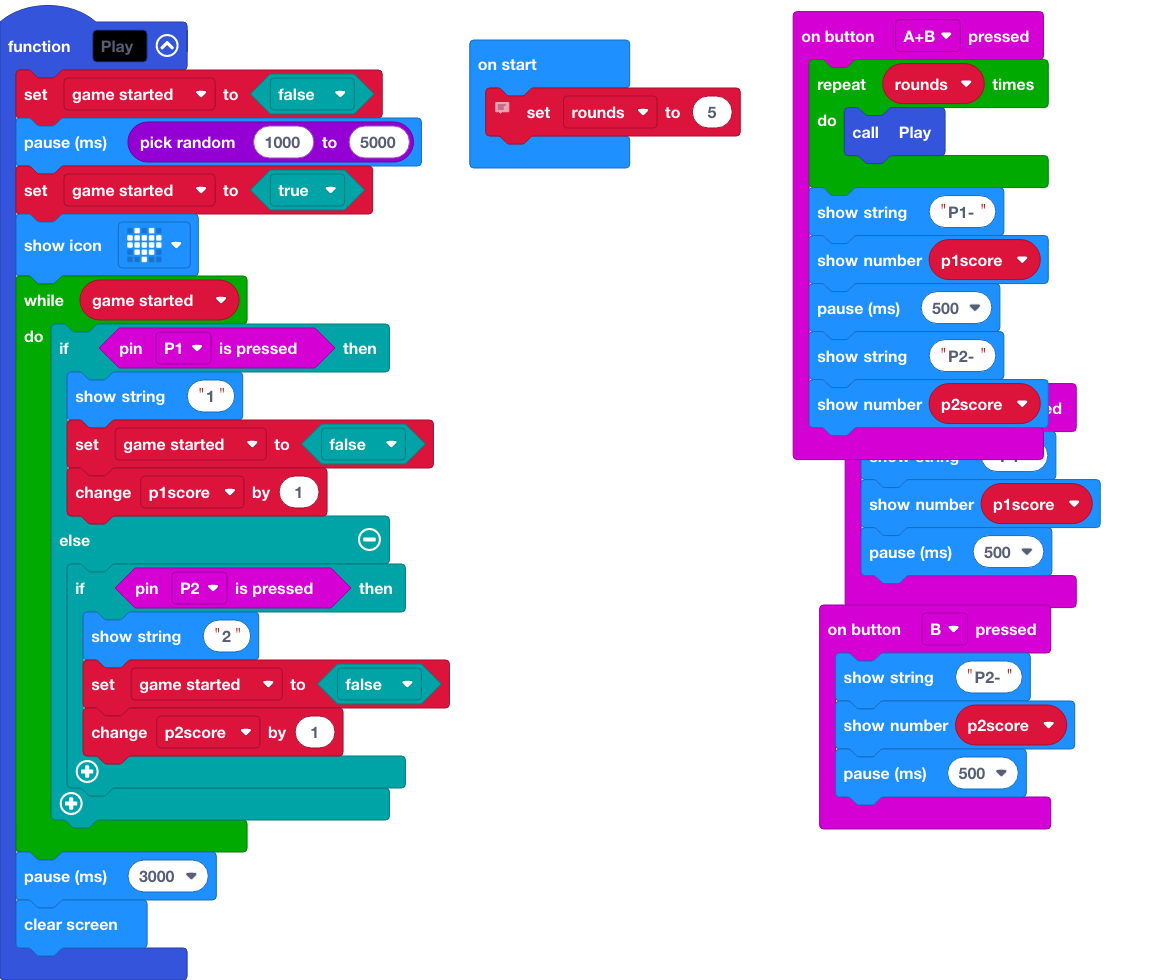
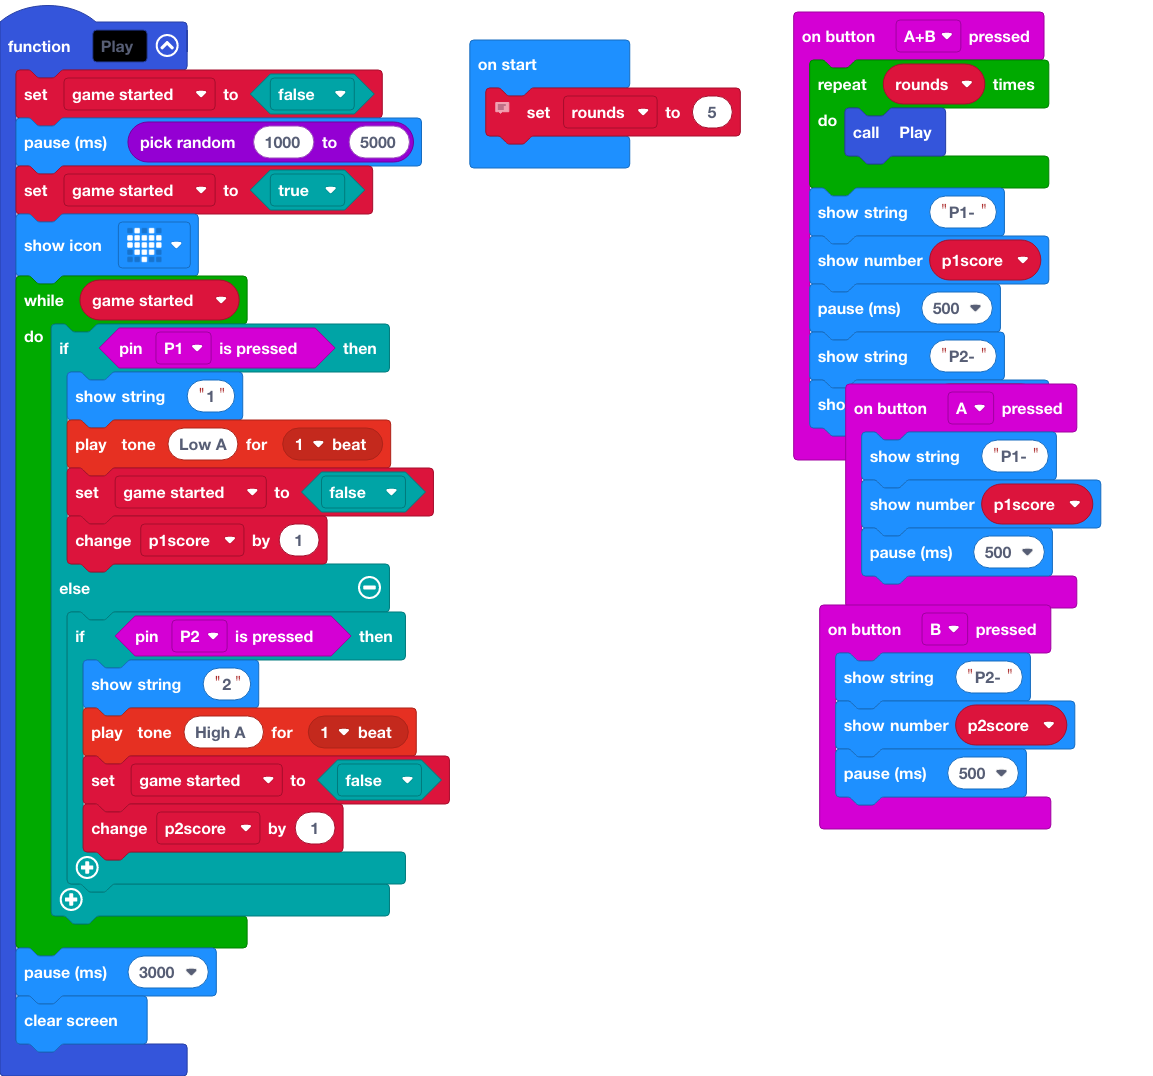
Update main.blocks, main.ts

Changed region(s): [[0.0, 0.0, 0.4062, 0.9796], [0.6875, 0.0, 0.9688, 0.8571], [0.4062, 0.0306, 0.6562, 0.1837]]

diff --git a/main.ts b/main.ts
@@ -6,11 +6,13 @@ function Play () {
     while (game_started) {
         if (input.pinIsPressed(TouchPin.P1)) {
             basic.showString("1")
+            music.playTone(220, music.beat(BeatFraction.Whole))
             game_started = false
             p1score += 1
         } else {
             if (input.pinIsPressed(TouchPin.P2)) {
                 basic.showString("2")
+                music.playTone(880, music.beat(BeatFraction.Whole))
                 game_started = false
                 p2score += 1
             }
